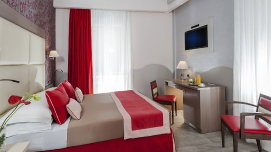
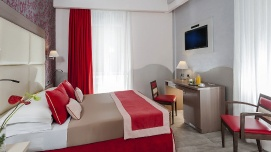
Сжатие картинок, исправление отзывчивости

diff --git a/app/pages/page-room/page-room.sass b/app/pages/page-room/page-room.sass
@@ -95,3 +95,12 @@
   
   .page-room__details
     margin: 20px 0
+
+@media screen and ( max-width: 410px )
+  .page-room__title-group
+    display: block
+    margin-bottom: 20px
+
+    .page-room__info-title
+      margin-bottom: 10px
+    

diff --git a/app/components/user-form/user-form.sass b/app/components/user-form/user-form.sass
@@ -36,6 +36,7 @@
   justify-content: space-between
   p
     color: #000
+    margin-right: 10px
 
 .user-form__btn-sign-in
   padding: 13px 25px !important

diff --git a/app/pages/index/index.sass b/app/pages/index/index.sass
@@ -30,7 +30,3 @@
   top: 0
   left: 0
   font-weight: bold
-
-@media screen and ( max-width: 403px )
-  .datepicker
-    width: auto !important
